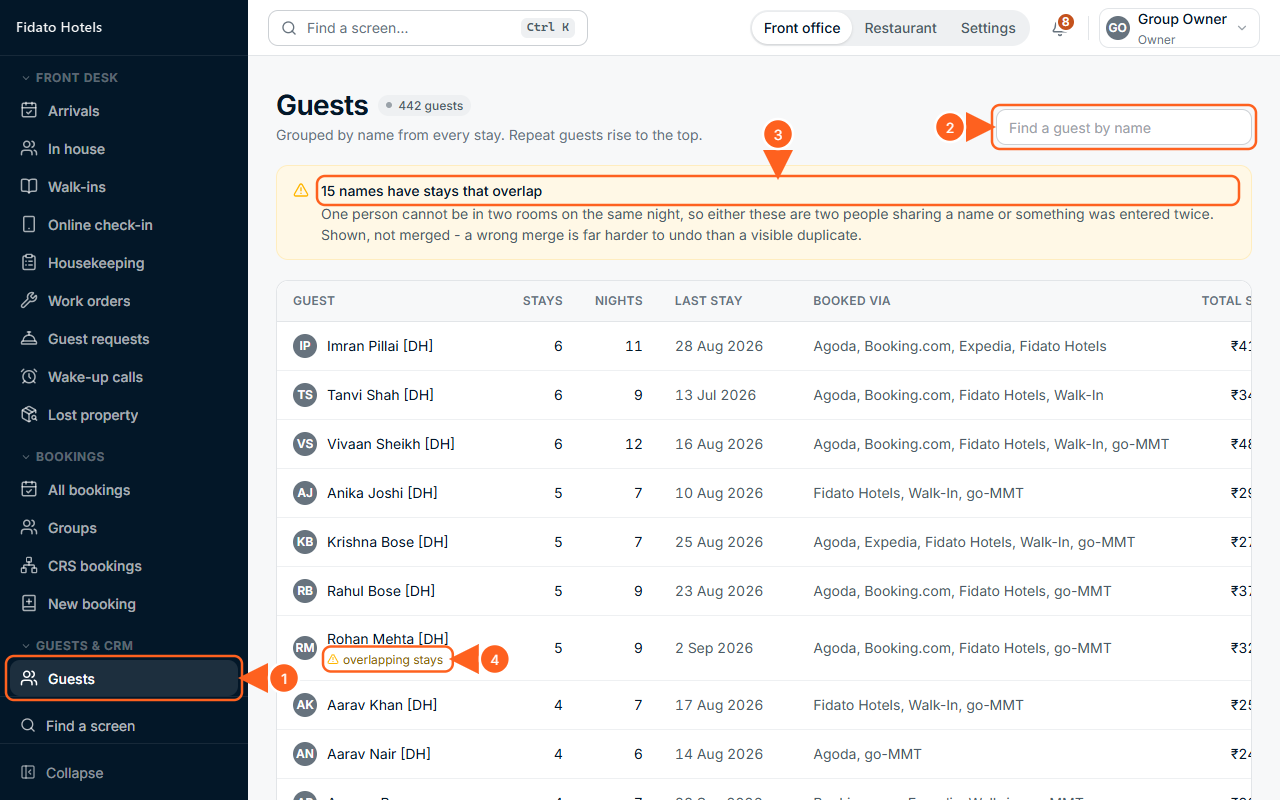
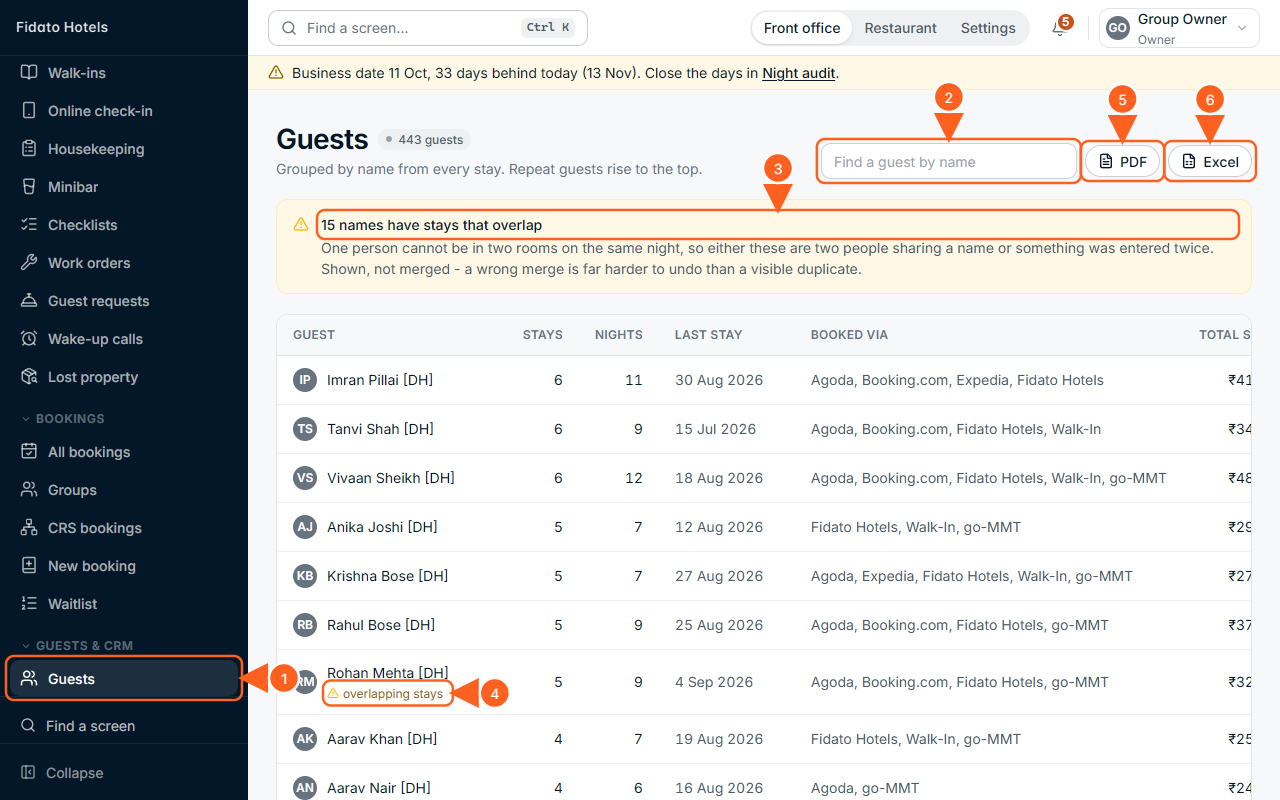
Manual A10: Guests and Companies with PDF and Excel, the housekeeping card retaken, Edit on a company row

diff --git a/docs/manual/manual.html b/docs/manual/manual.html
@@ -7164,13 +7164,15 @@ figure.shot.phone img { max-width: 72mm; }
   <p>Open <span class="ui">Guests</span>. Every guest booked at this hotel is one line, put together from their bookings by the name on the booking. Repeat guests come first. The pill beside the heading counts them.</p>
 
   <figure class="shot" id="fig-A10-01">
-    <img src="img/A10-01.png" alt="The Guests screen: the guest count, Find a guest by name, the yellow box about overlapping stays, and the list with a name marked overlapping stays">
+    <img src="img/A10-01.png" alt="The Guests screen: the guest count, Find a guest by name, PDF and Excel, the yellow box about overlapping stays, and the list with a name marked overlapping stays">
     <figcaption><b>Figure A10-01.</b> Guests: everyone who has stayed, grouped by name.</figcaption>
     <ol class="callouts">
       <li>Guests, in the Guests &amp; CRM part of the menu</li>
       <li>Find a guest by name: type part of the name</li>
       <li>How many names have stays that overlap - shown, never merged</li>
       <li>A name with overlapping stays</li>
+      <li>PDF: the list as it is, for those who download reports (A11.2)</li>
+      <li>Excel: the same, as a spreadsheet</li>
     </ol>
   </figure>
 
@@ -7263,7 +7265,7 @@ figure.shot.phone img { max-width: 72mm; }
   <p><span class="ui">Companies and agents</span> answers “where did the business come from, and what was each worth?”. Three tiles at the top, then one table for each kind of source.</p>
 
   <figure class="shot" id="fig-A10-04">
-    <img src="img/A10-04.png" alt="Companies and agents: Add company, the tiles Through an agent, Direct, Owed to the property, and the Travel agents table">
+    <img src="img/A10-04.png" alt="Companies and agents: PDF, Excel and Add company, the tiles Through an agent, Direct, Owed to the property, and the Travel agents table with Edit on each row">
     <figcaption><b>Figure A10-04.</b> Companies and agents.</figcaption>
     <ol class="callouts">
       <li>Add company</li>
@@ -7271,6 +7273,8 @@ figure.shot.phone img { max-width: 72mm; }
       <li>Owed to the property: what every source still owes</li>
       <li>Each kind says what it is</li>
       <li>Edit: on each company, for the owner, an Admin and the GM</li>
+      <li>PDF: the tables as they are, for those who download reports (A11.2)</li>
+      <li>Excel: the same, as a spreadsheet</li>
     </ol>
   </figure>
 
@@ -7310,7 +7314,7 @@ figure.shot.phone img { max-width: 72mm; }
   <h3>To change a company</h3>
   <p>For the owner, an Admin and the GM; nobody else sees the button. The same window opens from <span class="ui">Edit company</span> on a company's Contracts page (A15).</p>
   <ol class="steps">
-    <li>Find the company in its table and tap <span class="ui">Edit</span> at the end of its row. A booking site or a source that is not a company, such as Walk-in, has no <span class="ui">Edit</span>: those are on <span class="ui">Booking sources</span>.</li>
+    <li>Find the company in its table and tap <span class="ui">Edit</span> at the end of its row. A row has <span class="ui">Edit</span> when its name is also a company on the group's list, as the booking sites and Fidato Hotels are on the demo (Figure A10-04). A source with no company behind it has no <span class="ui">Edit</span>: its commission is on <span class="ui">Booking sources</span>.</li>
     <li>The window is headed <span class="ui">Edit company</span>, with the company's details in it. Change what is wrong.</li>
     <li>Tap <span class="ui">Save</span>. The message says <span class="msg">“Company updated”</span>.</li>
   </ol>

diff --git a/docs/manual/chapters/a10.html b/docs/manual/chapters/a10.html
@@ -33,13 +33,15 @@
   <p>Open <span class="ui">Guests</span>. Every guest booked at this hotel is one line, put together from their bookings by the name on the booking. Repeat guests come first. The pill beside the heading counts them.</p>
 
   <figure class="shot" id="fig-A10-01">
-    <img src="img/A10-01.png" alt="The Guests screen: the guest count, Find a guest by name, the yellow box about overlapping stays, and the list with a name marked overlapping stays">
+    <img src="img/A10-01.png" alt="The Guests screen: the guest count, Find a guest by name, PDF and Excel, the yellow box about overlapping stays, and the list with a name marked overlapping stays">
     <figcaption><b>Figure A10-01.</b> Guests: everyone who has stayed, grouped by name.</figcaption>
     <ol class="callouts">
       <li>Guests, in the Guests &amp; CRM part of the menu</li>
       <li>Find a guest by name: type part of the name</li>
       <li>How many names have stays that overlap - shown, never merged</li>
       <li>A name with overlapping stays</li>
+      <li>PDF: the list as it is, for those who download reports (A11.2)</li>
+      <li>Excel: the same, as a spreadsheet</li>
     </ol>
   </figure>
 
@@ -132,7 +134,7 @@
   <p><span class="ui">Companies and agents</span> answers “where did the business come from, and what was each worth?”. Three tiles at the top, then one table for each kind of source.</p>
 
   <figure class="shot" id="fig-A10-04">
-    <img src="img/A10-04.png" alt="Companies and agents: Add company, the tiles Through an agent, Direct, Owed to the property, and the Travel agents table">
+    <img src="img/A10-04.png" alt="Companies and agents: PDF, Excel and Add company, the tiles Through an agent, Direct, Owed to the property, and the Travel agents table with Edit on each row">
     <figcaption><b>Figure A10-04.</b> Companies and agents.</figcaption>
     <ol class="callouts">
       <li>Add company</li>
@@ -140,6 +142,8 @@
       <li>Owed to the property: what every source still owes</li>
       <li>Each kind says what it is</li>
       <li>Edit: on each company, for the owner, an Admin and the GM</li>
+      <li>PDF: the tables as they are, for those who download reports (A11.2)</li>
+      <li>Excel: the same, as a spreadsheet</li>
     </ol>
   </figure>
 
@@ -179,7 +183,7 @@
   <h3>To change a company</h3>
   <p>For the owner, an Admin and the GM; nobody else sees the button. The same window opens from <span class="ui">Edit company</span> on a company's Contracts page (A15).</p>
   <ol class="steps">
-    <li>Find the company in its table and tap <span class="ui">Edit</span> at the end of its row. A booking site or a source that is not a company, such as Walk-in, has no <span class="ui">Edit</span>: those are on <span class="ui">Booking sources</span>.</li>
+    <li>Find the company in its table and tap <span class="ui">Edit</span> at the end of its row. A row has <span class="ui">Edit</span> when its name is also a company on the group's list, as the booking sites and Fidato Hotels are on the demo (Figure A10-04). A source with no company behind it has no <span class="ui">Edit</span>: its commission is on <span class="ui">Booking sources</span>.</li>
     <li>The window is headed <span class="ui">Edit company</span>, with the company's details in it. Change what is wrong.</li>
     <li>Tap <span class="ui">Save</span>. The message says <span class="msg">“Company updated”</span>.</li>
   </ol>

diff --git a/docs/manual/CHANGELOG.md b/docs/manual/CHANGELOG.md
@@ -8,3 +8,4 @@ One line per chapter and picture set, in the order they were committed; the deci
 - 13 Nov, A1 (D27-396): Figure A1-16 shows img/A5-T1.png (the same window as Figure A5-06), so its 'to be taken' box is gone.
 - 13 Nov, A4 (D27-396): A4-01 (PDF and Excel, two guests overpaid), A4-02 (Finance menu with Supplier dues) and A4-11 (arrow 4 on the window's own button) retaken; A4-25 and A4-26 new (Cancel this invoice, the credit note window); A4.10 says the restaurant calls Paid out Expense. A4-06m not retaken: it needs a beer on the minibar list and the alcohol VAT set up (see the report).
 - 13 Nov, A7 (D27-396): A7.3 lists the seven things that can stop the audit (a day not begun, the hour, due out, the front desk drawer, each outlet's till, the bar's closing count, no GST rule), taken from the server's own sentences.
+- 13 Nov, A10 (D27-396): A10-01 and A10-04 retaken with PDF and Excel; A10-33 retaken on the demo (Lata Bhosale's preferences on room 204, Ganesh Patil still in it); A10.4 says which rows have Edit.
